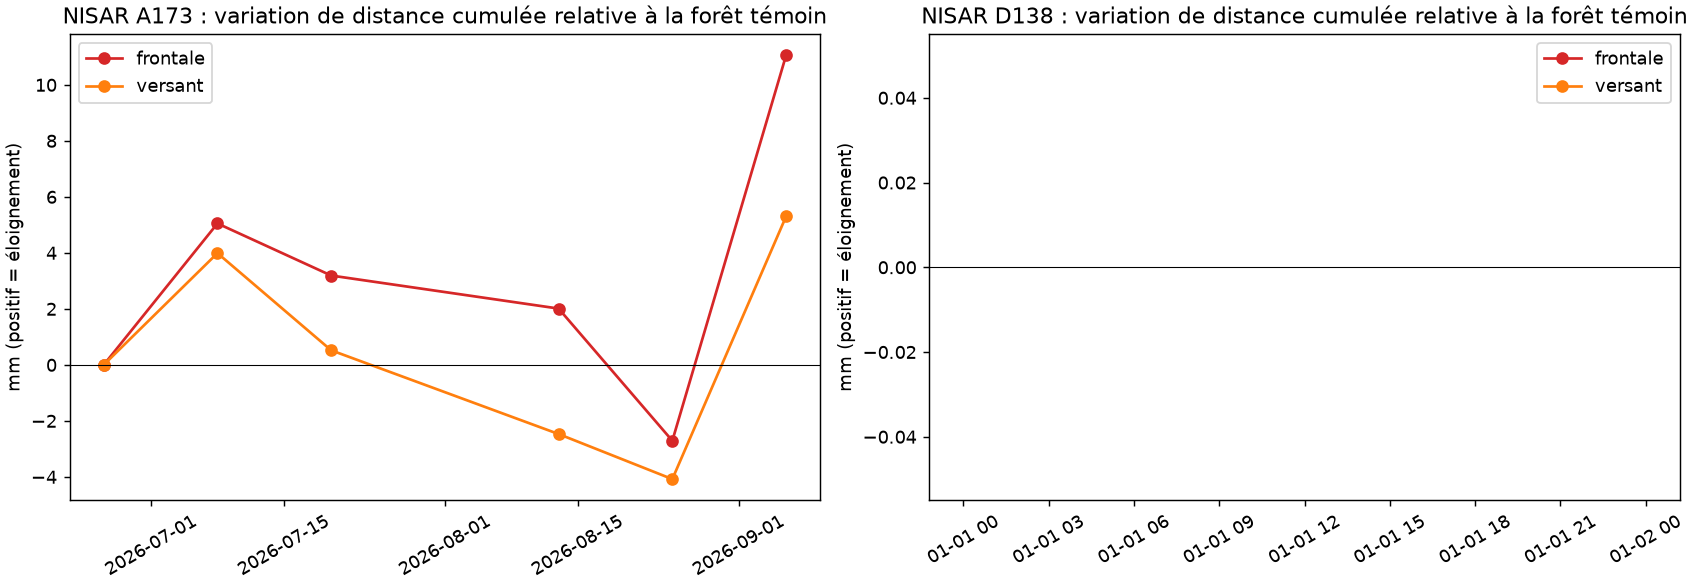
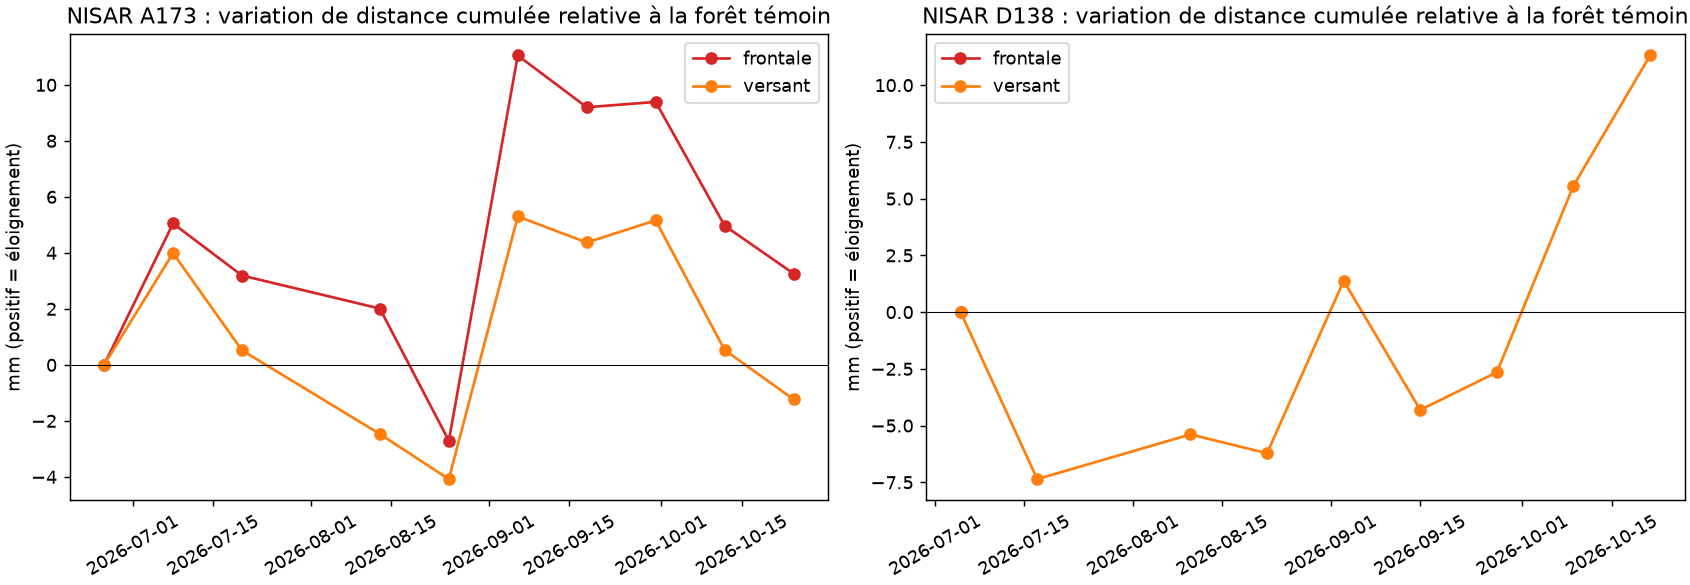
Glissements : analyse NISAR complète (17 interférogrammes), correction de rampe et de troposphère stratifiée, cartes de déplacement cumulé

diff --git a/scripts/glissement/g4_analysis.py b/scripts/glissement/g4_analysis.py
@@ -22,6 +22,8 @@ from __future__ import annotations
 from pathlib import Path
 
 import matplotlib.pyplot as plt
+import warnings
+
 import numpy as np
 import pandas as pd
 import rasterio
@@ -81,6 +83,7 @@ def nisar_pairs(data: Path, geom: str) -> pd.DataFrame:
 
 
 def main() -> None:
+    warnings.filterwarnings("ignore", category=RuntimeWarning)
     s = load_site("sechilienne")
     res, data = Path(s["chemins"]["results"]), Path(s["chemins"]["data_root"])
     grid = load_raster(res / "grid" / "zones.tif")
@@ -163,6 +166,18 @@ def main() -> None:
             cum.append({"geom": geom, "date": r.sec, **{k: round(v, 2) for k, v in acc.items()}})
             t = pd.Timestamp(r.sec)
     cdf = pd.DataFrame(cum)
+    # cumulative maps (same contiguous chains)
+    cmaps = {}
+    for geom in PAIRING:
+        acc, t, n = None, None, 0
+        for k in sorted([k for k in maps if k[0] == "L" and k[1] == geom], key=lambda k: k[2]):
+            if t is not None and k[2] != t:
+                continue
+            u = maps[k][2]
+            acc = u.copy() if acc is None else acc + u
+            t, n = k[3], n + 1
+        if acc is not None:
+            cmaps[geom] = (1e3 * lam["L"] / (4 * np.pi) * acc, n)
     cdf.to_csv(res / "tables" / "g4_cumul.csv", index=False)
     print(cdf.to_string(index=False))
 
@@ -212,6 +227,18 @@ def main() -> None:
             ax[i].legend()
             ax[i].tick_params(axis="x", rotation=30)
         fig.savefig(figs / "g4_cumul_L.png", dpi=130)
+        plt.close(fig)
+    if cmaps:
+        fig, ax = plt.subplots(1, len(cmaps), figsize=(6.5 * len(cmaps), 5), constrained_layout=True)
+        for a_, (geom, (cm, n)) in zip(np.atleast_1d(ax), cmaps.items()):
+            hnd = a_.imshow(cm, extent=ext, vmin=-30, vmax=30, cmap="RdBu_r")
+            a_.contour(np.flipud(Z == 1), [0.5], colors="k", linewidths=0.9, extent=ext, origin="lower")
+            a_.contour(np.flipud(Z == 2), [0.5], colors="0.3", linewidths=0.5, extent=ext, origin="lower")
+            a_.contour(np.flipud(Z == 3), [0.5], colors="g", linewidths=0.5, extent=ext, origin="lower")
+            a_.set_title(f"NISAR {geom} : variation de distance cumulée ({n} paires), mm", fontsize=10)
+            a_.tick_params(labelsize=6)
+            fig.colorbar(hnd, ax=a_, shrink=0.8, label="mm (positif = éloignement)")
+        fig.savefig(figs / "g4_cumul_maps_L.png", dpi=130)
         plt.close(fig)
 
 
